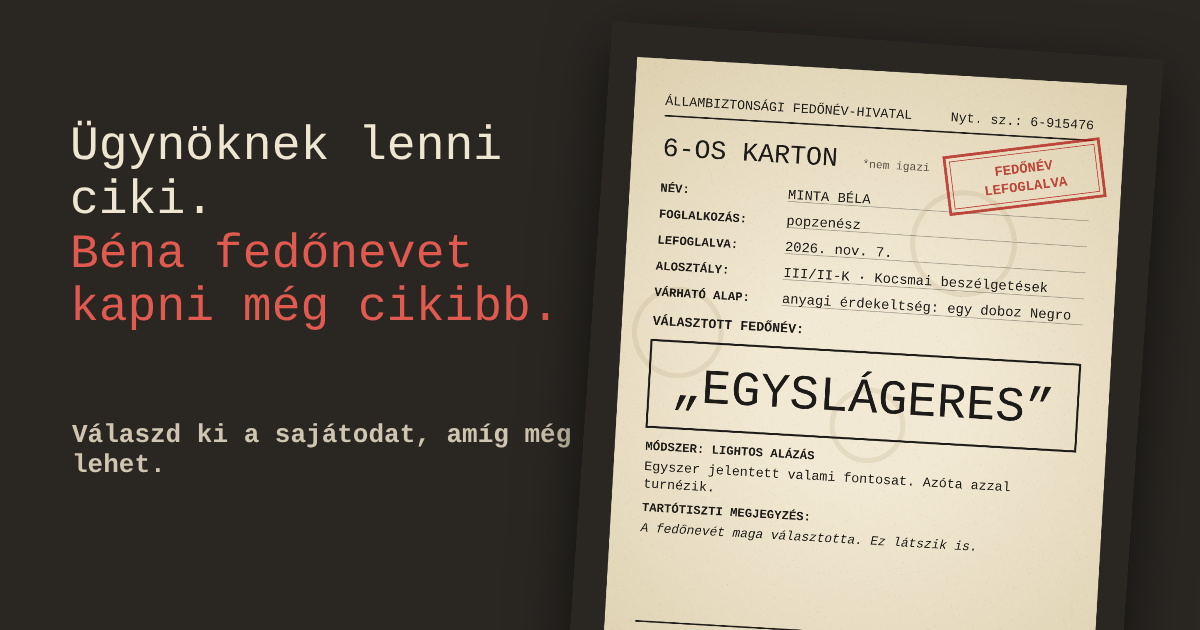
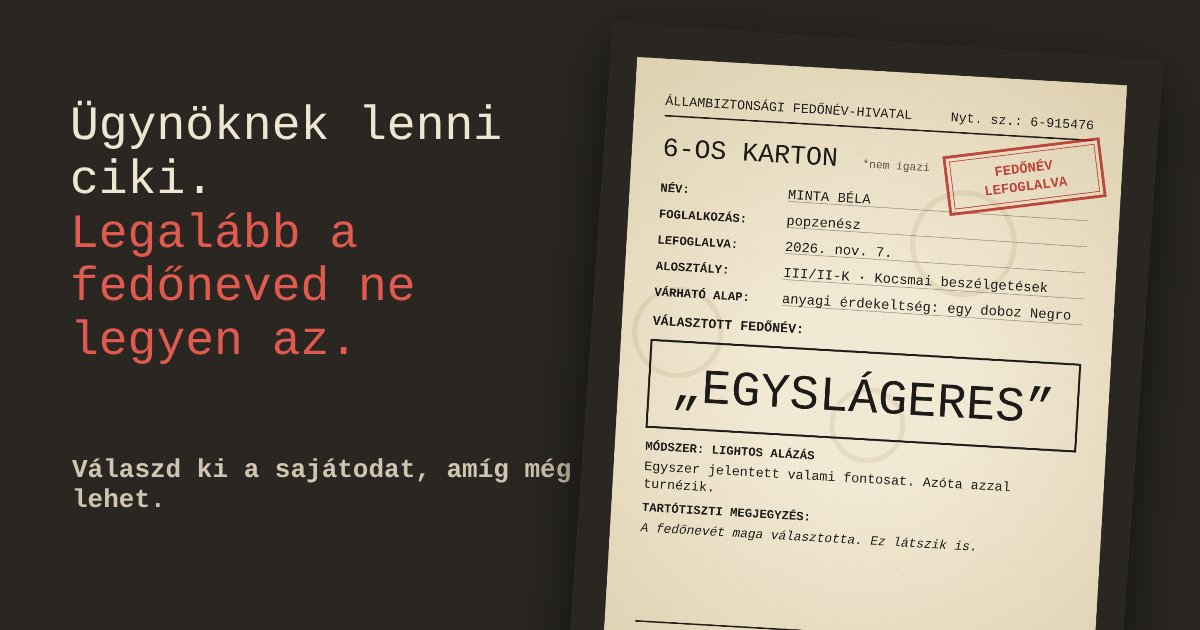
Fedőnév-generátor: pixel-ügynök hero, új főcím és előnézet
Claude-Session: https://claude.ai/code/session_019mFdNGdTK36R9U49jS4rqr

diff --git a/fedonev/index.html b/fedonev/index.html
@@ -3,24 +3,31 @@
 <head>
 <meta charset="utf-8">
 <meta name="viewport" content="width=device-width, initial-scale=1, viewport-fit=cover">
-<meta name="description" content="Ügynöknek lenni ciki. Béna fedőnevet kapni még cikibb. Válaszd ki a sajátodat, amíg még lehet.">
-<meta property="og:title" content="Mi lenne a fedőneved?">
-<meta property="og:description" content="Ügynöknek lenni ciki. Béna fedőnevet kapni még cikibb. Most még választhatsz.">
+<meta name="description" content="Ügynöknek lenni ciki. Legalább a fedőneved ne legyen az.">
+<meta property="og:title" content="Ügynöknek lenni ciki. Legalább a fedőneved ne legyen az.">
+<meta property="og:description" content="Vágó „Quiz” lett, Szikora „Nanu-Nanu”. Nekik nem volt beleszólásuk. Neked most még van.">
 <meta property="og:type" content="website">
 <meta property="og:url" content="https://luckybastard.hu/fedonev/">
-<meta property="og:image" content="https://luckybastard.hu/fedonev/og.png">
+<meta property="og:image" content="https://luckybastard.hu/fedonev/og.png?v=2">
 <meta property="og:image:width" content="1200">
 <meta property="og:image:height" content="630">
 <meta property="og:locale" content="hu_HU">
 <meta name="twitter:card" content="summary_large_image">
 <title>Fedőnév-generátor</title>
 <link rel="preconnect" href="https://fonts.googleapis.com">
-<link href="https://fonts.googleapis.com/css2?family=Special+Elite&family=Courier+Prime:wght@400;700&family=Playfair+Display:ital,wght@0,900;1,900&display=swap" rel="stylesheet">
+<link href="https://fonts.googleapis.com/css2?family=Special+Elite&family=Courier+Prime:wght@400;700&family=Playfair+Display:ital,wght@0,900;1,900&family=Press+Start+2P&display=swap" rel="stylesheet">
 <style>
   :root{--paper:#efe6d2;--ink:#1d1b18;--red:#b3261e;--muted:#6b6355}
   *{box-sizing:border-box}
   body{margin:0;background:#2a2723;color:var(--ink);font-family:'Courier Prime',monospace;min-height:100vh}
   .wrap{max-width:480px;margin:0 auto;padding:20px 16px 48px}
+  .hero{text-align:center;padding-top:6px}
+  .hero h1{font-size:26px}
+  .fig{position:relative;width:200px;height:300px;margin:0 auto}
+  #pix{width:200px;height:300px;image-rendering:pixelated;display:block}
+  #tag{position:absolute;left:30px;top:170px;width:140px;height:50px;display:flex;align-items:center;justify-content:center;font-family:'Press Start 2P','Courier New',monospace;color:#1d1b18;font-size:13px;transition:transform .3s}
+  h1 span{color:#e05a4f;display:block}
+  .cta{background:#b3261e;border-color:#b3261e;color:#fff;margin:4px 0 22px}
   h1{font-family:'Special Elite',monospace;color:var(--paper);font-size:30px;line-height:1.1;margin:8px 0 6px;letter-spacing:.5px}
   .lead{color:#cfc5b0;font-size:15px;line-height:1.45;margin:0 0 18px}
   .form{background:var(--paper);padding:18px 16px;border-radius:2px;box-shadow:0 8px 30px rgba(0,0,0,.4)}
@@ -61,8 +68,12 @@
 </head>
 <body>
 <div class="wrap">
-  <h1>Ügynöknek lenni ciki. Béna fedőnevet kapni még cikibb.</h1>
-  <p class="lead">Vágó István „Quiz” lett, Szikora Róbert „Nanu-Nanu”. Nekik nem volt beleszólásuk. Ha téged valaha beszerveznének, legyen kész neved a tarsolyban. Most még választhatsz.</p>
+  <div class="hero">
+    <div class="fig"><canvas id="pix" width="200" height="300"></canvas><div id="tag"></div></div>
+    <h1>Ügynöknek lenni ciki. <span>Legalább a fedőneved ne legyen az.</span></h1>
+    <p class="lead">Vágó István „Quiz” lett, Szikora Róbert „Nanu-Nanu”. Nekik nem volt beleszólásuk. Neked most még van.</p>
+    <button type="button" class="cta" id="cta">Kérem a fedőnevem</button>
+  </div>
 
   <form class="form" id="f">
     <h2>BESZERVEZÉSI ADATLAP</h2>
@@ -424,6 +435,51 @@ $('share').addEventListener('click',async()=>{
   if(dl){try{await dl.save({filename:fn,data:blob});return}catch(err){if(err&&err.code==='declined')return}}
   msg.textContent='Itt nem nyílik meg a megosztás. Nyomd hosszan a képet, és mentsd el.';
 });
+
+(function(){
+ const cv=$('pix');if(!cv)return;const c=cv.getContext('2d'),U=10;
+ const px=(x,y,w,h,col)=>{c.fillStyle=col;c.fillRect(Math.round(x*U),Math.round(y*U),Math.round(w*U),Math.round(h*U))};
+ const names=['QUIZ','NANU-NANU','DÉVA','TANÁR','?'];let i=0,drop=0,sigh=0,tear=null,t0=performance.now();
+ const rain=[];for(let k=0;k<16;k++)rain.push({x:Math.random()*20,y:Math.random()*30,s:.22+Math.random()*.2});
+ const COAT='#a8946a',COATD='#8a7650',COATL='#bba67a',HAT='#1a1816';
+ function frame(t){
+  c.clearRect(0,0,200,300);
+  rain.forEach(r=>{px(r.x,r.y,0.2,1,'#56636f');r.y+=r.s;if(r.y>30){r.y=-1;r.x=Math.random()*20}});
+  const sg=Math.sin((t-t0)/900)*0.15+sigh, d=drop;
+  // lábak, cipők
+  px(6.5,24,2.5,4,'#26231f');px(11,24,2.5,4,'#26231f');px(5.5,28,3.5,1,'#111');px(11,28,3.5,1,'#111');
+  // kabát (lógó, csapott váll)
+  px(6,12+sg,8,12,COAT);px(5,13+sg,1,11,COAT);px(14,13+sg,1,11,COAT);px(4.5,14+sg,0.5,8,COATD);px(15,14+sg,0.5,8,COATD);
+  px(4,22,12,2,COAT);px(9.6,12+sg,0.8,12,COATD);px(5,18.5+sg,10,0.8,COATD);
+  // karok lógva
+  px(3.5,14+sg,1.5,6,'#9a875f');px(15,14+sg,1.5,6,'#9a875f');
+  // fej: mélyen lehajtva, kicsit oldalra billentve
+  const hy=2.2+sg+d, hx=0.4;
+  px(7+hx,8+hy,6,2.6,'#3b352d');
+  px(6+hx,3+hy,8,3,HAT);px(6+hx,6+hy,8,0.8,'#b3261e');px(3.8+hx,6.8+hy,13,1,HAT);
+  // felállított gallér az arc két oldalán
+  px(5.2,10+sg,1.8,3.5,COATL);px(5.8,9.2+sg,1.2,1,COATL);px(6.6,10.4+sg,0.5,3,COATD);
+  px(13.2,10+sg,1.8,3.5,COATL);px(13.2,9.2+sg,1.2,1,COATL);px(13,10.4+sg,0.5,3,COATD);
+  // tábla
+  px(3,17+sg,14,5,'#efe6d2');c.strokeStyle='#b3261e';c.lineWidth=3;c.strokeRect(31.5,171.5+sg*U,137,47);
+  px(3,17+sg,1,1.2,'#c9a27e');px(16,17+sg,1,1.2,'#c9a27e');
+  // könnycsepp
+  if(!tear&&Math.random()<0.006)tear={x:Math.random()<.5?8.6:11.6,y:10.2+hy};
+  if(tear){px(tear.x,tear.y,0.4,0.6,'#8fb3d9');tear.y+=0.06;if(tear.y>13)tear=null}
+  requestAnimationFrame(frame);
+ }
+ const tag=$('tag');
+ function next(){
+  const n=names[i];tag.textContent=n;tag.style.fontSize=n.length>6?'11px':'15px';
+  tag.style.color=n==='?'?'#b3261e':'#1d1b18';
+  drop=0.9;tag.style.transform='translateY(4px) rotate(-2deg)';
+  if(n==='?')sigh=0.6;
+  setTimeout(()=>{drop=0;sigh=0;tag.style.transform='rotate(-1deg)'},n==='?'?1800:550);
+  i=(i+1)%names.length;setTimeout(next,n==='?'?3400:2300);
+ }
+ next();requestAnimationFrame(frame);
+ $('cta').addEventListener('click',()=>{$('f').scrollIntoView({behavior:'smooth'});setTimeout(()=>$('name').focus(),500)});
+})();
 })();
 </script>
 </body>

diff --git a/luckybastard_portfolio/fedonev/index.html b/luckybastard_portfolio/fedonev/index.html
@@ -3,24 +3,31 @@
 <head>
 <meta charset="utf-8">
 <meta name="viewport" content="width=device-width, initial-scale=1, viewport-fit=cover">
-<meta name="description" content="Ügynöknek lenni ciki. Béna fedőnevet kapni még cikibb. Válaszd ki a sajátodat, amíg még lehet.">
-<meta property="og:title" content="Mi lenne a fedőneved?">
-<meta property="og:description" content="Ügynöknek lenni ciki. Béna fedőnevet kapni még cikibb. Most még választhatsz.">
+<meta name="description" content="Ügynöknek lenni ciki. Legalább a fedőneved ne legyen az.">
+<meta property="og:title" content="Ügynöknek lenni ciki. Legalább a fedőneved ne legyen az.">
+<meta property="og:description" content="Vágó „Quiz” lett, Szikora „Nanu-Nanu”. Nekik nem volt beleszólásuk. Neked most még van.">
 <meta property="og:type" content="website">
 <meta property="og:url" content="https://luckybastard.hu/fedonev/">
-<meta property="og:image" content="https://luckybastard.hu/fedonev/og.png">
+<meta property="og:image" content="https://luckybastard.hu/fedonev/og.png?v=2">
 <meta property="og:image:width" content="1200">
 <meta property="og:image:height" content="630">
 <meta property="og:locale" content="hu_HU">
 <meta name="twitter:card" content="summary_large_image">
 <title>Fedőnév-generátor</title>
 <link rel="preconnect" href="https://fonts.googleapis.com">
-<link href="https://fonts.googleapis.com/css2?family=Special+Elite&family=Courier+Prime:wght@400;700&family=Playfair+Display:ital,wght@0,900;1,900&display=swap" rel="stylesheet">
+<link href="https://fonts.googleapis.com/css2?family=Special+Elite&family=Courier+Prime:wght@400;700&family=Playfair+Display:ital,wght@0,900;1,900&family=Press+Start+2P&display=swap" rel="stylesheet">
 <style>
   :root{--paper:#efe6d2;--ink:#1d1b18;--red:#b3261e;--muted:#6b6355}
   *{box-sizing:border-box}
   body{margin:0;background:#2a2723;color:var(--ink);font-family:'Courier Prime',monospace;min-height:100vh}
   .wrap{max-width:480px;margin:0 auto;padding:20px 16px 48px}
+  .hero{text-align:center;padding-top:6px}
+  .hero h1{font-size:26px}
+  .fig{position:relative;width:200px;height:300px;margin:0 auto}
+  #pix{width:200px;height:300px;image-rendering:pixelated;display:block}
+  #tag{position:absolute;left:30px;top:170px;width:140px;height:50px;display:flex;align-items:center;justify-content:center;font-family:'Press Start 2P','Courier New',monospace;color:#1d1b18;font-size:13px;transition:transform .3s}
+  h1 span{color:#e05a4f;display:block}
+  .cta{background:#b3261e;border-color:#b3261e;color:#fff;margin:4px 0 22px}
   h1{font-family:'Special Elite',monospace;color:var(--paper);font-size:30px;line-height:1.1;margin:8px 0 6px;letter-spacing:.5px}
   .lead{color:#cfc5b0;font-size:15px;line-height:1.45;margin:0 0 18px}
   .form{background:var(--paper);padding:18px 16px;border-radius:2px;box-shadow:0 8px 30px rgba(0,0,0,.4)}
@@ -61,8 +68,12 @@
 </head>
 <body>
 <div class="wrap">
-  <h1>Ügynöknek lenni ciki. Béna fedőnevet kapni még cikibb.</h1>
-  <p class="lead">Vágó István „Quiz” lett, Szikora Róbert „Nanu-Nanu”. Nekik nem volt beleszólásuk. Ha téged valaha beszerveznének, legyen kész neved a tarsolyban. Most még választhatsz.</p>
+  <div class="hero">
+    <div class="fig"><canvas id="pix" width="200" height="300"></canvas><div id="tag"></div></div>
+    <h1>Ügynöknek lenni ciki. <span>Legalább a fedőneved ne legyen az.</span></h1>
+    <p class="lead">Vágó István „Quiz” lett, Szikora Róbert „Nanu-Nanu”. Nekik nem volt beleszólásuk. Neked most még van.</p>
+    <button type="button" class="cta" id="cta">Kérem a fedőnevem</button>
+  </div>
 
   <form class="form" id="f">
     <h2>BESZERVEZÉSI ADATLAP</h2>
@@ -424,6 +435,51 @@ $('share').addEventListener('click',async()=>{
   if(dl){try{await dl.save({filename:fn,data:blob});return}catch(err){if(err&&err.code==='declined')return}}
   msg.textContent='Itt nem nyílik meg a megosztás. Nyomd hosszan a képet, és mentsd el.';
 });
+
+(function(){
+ const cv=$('pix');if(!cv)return;const c=cv.getContext('2d'),U=10;
+ const px=(x,y,w,h,col)=>{c.fillStyle=col;c.fillRect(Math.round(x*U),Math.round(y*U),Math.round(w*U),Math.round(h*U))};
+ const names=['QUIZ','NANU-NANU','DÉVA','TANÁR','?'];let i=0,drop=0,sigh=0,tear=null,t0=performance.now();
+ const rain=[];for(let k=0;k<16;k++)rain.push({x:Math.random()*20,y:Math.random()*30,s:.22+Math.random()*.2});
+ const COAT='#a8946a',COATD='#8a7650',COATL='#bba67a',HAT='#1a1816';
+ function frame(t){
+  c.clearRect(0,0,200,300);
+  rain.forEach(r=>{px(r.x,r.y,0.2,1,'#56636f');r.y+=r.s;if(r.y>30){r.y=-1;r.x=Math.random()*20}});
+  const sg=Math.sin((t-t0)/900)*0.15+sigh, d=drop;
+  // lábak, cipők
+  px(6.5,24,2.5,4,'#26231f');px(11,24,2.5,4,'#26231f');px(5.5,28,3.5,1,'#111');px(11,28,3.5,1,'#111');
+  // kabát (lógó, csapott váll)
+  px(6,12+sg,8,12,COAT);px(5,13+sg,1,11,COAT);px(14,13+sg,1,11,COAT);px(4.5,14+sg,0.5,8,COATD);px(15,14+sg,0.5,8,COATD);
+  px(4,22,12,2,COAT);px(9.6,12+sg,0.8,12,COATD);px(5,18.5+sg,10,0.8,COATD);
+  // karok lógva
+  px(3.5,14+sg,1.5,6,'#9a875f');px(15,14+sg,1.5,6,'#9a875f');
+  // fej: mélyen lehajtva, kicsit oldalra billentve
+  const hy=2.2+sg+d, hx=0.4;
+  px(7+hx,8+hy,6,2.6,'#3b352d');
+  px(6+hx,3+hy,8,3,HAT);px(6+hx,6+hy,8,0.8,'#b3261e');px(3.8+hx,6.8+hy,13,1,HAT);
+  // felállított gallér az arc két oldalán
+  px(5.2,10+sg,1.8,3.5,COATL);px(5.8,9.2+sg,1.2,1,COATL);px(6.6,10.4+sg,0.5,3,COATD);
+  px(13.2,10+sg,1.8,3.5,COATL);px(13.2,9.2+sg,1.2,1,COATL);px(13,10.4+sg,0.5,3,COATD);
+  // tábla
+  px(3,17+sg,14,5,'#efe6d2');c.strokeStyle='#b3261e';c.lineWidth=3;c.strokeRect(31.5,171.5+sg*U,137,47);
+  px(3,17+sg,1,1.2,'#c9a27e');px(16,17+sg,1,1.2,'#c9a27e');
+  // könnycsepp
+  if(!tear&&Math.random()<0.006)tear={x:Math.random()<.5?8.6:11.6,y:10.2+hy};
+  if(tear){px(tear.x,tear.y,0.4,0.6,'#8fb3d9');tear.y+=0.06;if(tear.y>13)tear=null}
+  requestAnimationFrame(frame);
+ }
+ const tag=$('tag');
+ function next(){
+  const n=names[i];tag.textContent=n;tag.style.fontSize=n.length>6?'11px':'15px';
+  tag.style.color=n==='?'?'#b3261e':'#1d1b18';
+  drop=0.9;tag.style.transform='translateY(4px) rotate(-2deg)';
+  if(n==='?')sigh=0.6;
+  setTimeout(()=>{drop=0;sigh=0;tag.style.transform='rotate(-1deg)'},n==='?'?1800:550);
+  i=(i+1)%names.length;setTimeout(next,n==='?'?3400:2300);
+ }
+ next();requestAnimationFrame(frame);
+ $('cta').addEventListener('click',()=>{$('f').scrollIntoView({behavior:'smooth'});setTimeout(()=>$('name').focus(),500)});
+})();
 })();
 </script>
 </body>
